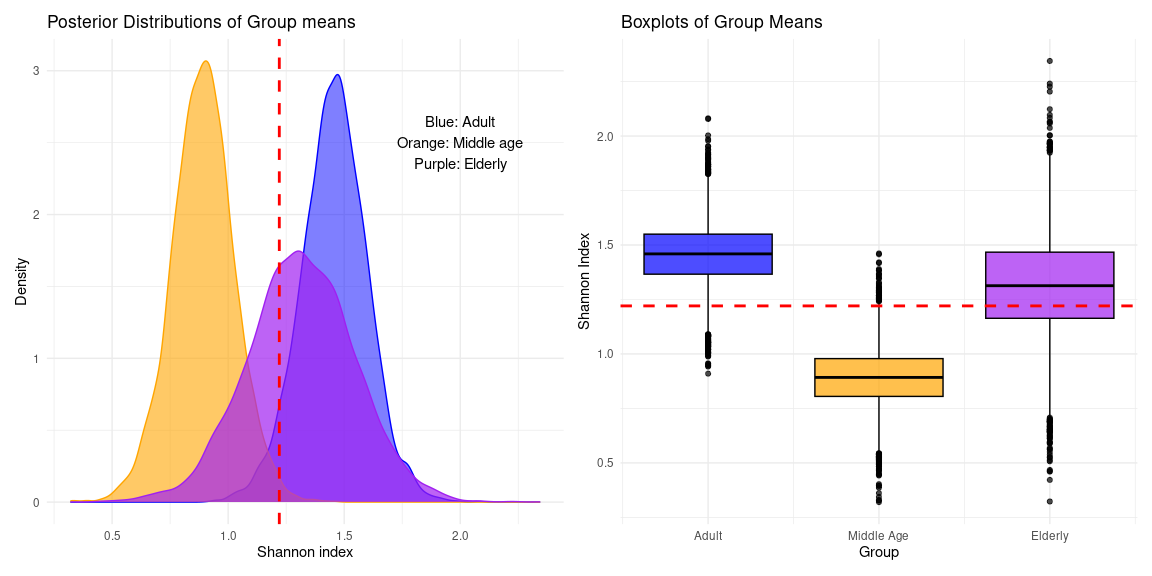
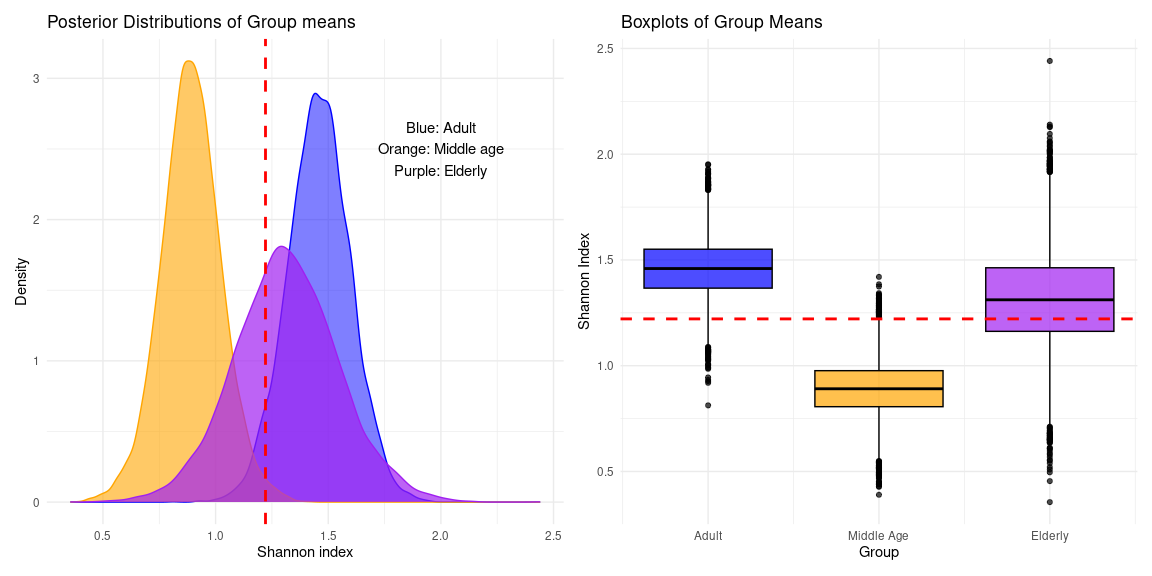
Refresh markdown render

diff --git a/multi_group_alt-bayes.md b/multi_group_alt-bayes.md
@@ -81,7 +81,6 @@ $$
 $$
 
 ``` r
-# Model with partial pooling
 start <- proc.time()
 fit <- brm(
     formula = bf(
@@ -108,16 +107,16 @@ runTime_brm <- end - start
 
     Regression Coefficients:
                         Estimate Est.Error l-95% CI u-95% CI Rhat Bulk_ESS Tail_ESS
-    Intercept               1.46      0.14     1.16     1.74 1.00     8460     5222
-    sigma_Intercept        -0.44      0.17    -0.76    -0.10 1.00     6934     5364
-    AgeElderly             -0.14      0.27    -0.68     0.38 1.00     7816     6013
-    AgeMiddle_age          -0.56      0.20    -0.94    -0.17 1.00     7660     5626
-    sigma_AgeElderly        0.33      0.25    -0.14     0.82 1.00     7323     5797
-    sigma_AgeMiddle_age    -0.26      0.26    -0.75     0.25 1.00     7494     6123
+    Intercept               1.46      0.14     1.18     1.73 1.00     7440     5869
+    sigma_Intercept        -0.44      0.17    -0.76    -0.11 1.00     7387     6009
+    AgeElderly             -0.14      0.27    -0.68     0.40 1.00     7663     5533
+    AgeMiddle_age          -0.57      0.19    -0.94    -0.18 1.00     7851     5730
+    sigma_AgeElderly        0.34      0.24    -0.14     0.82 1.00     8045     6180
+    sigma_AgeMiddle_age    -0.26      0.25    -0.75     0.25 1.00     8649     6253
 
     Further Distributional Parameters:
        Estimate Est.Error l-95% CI u-95% CI Rhat Bulk_ESS Tail_ESS
-    nu    24.45     14.73     5.93    61.19 1.00     9857     5860
+    nu    24.19     14.00     5.89    59.61 1.00     9238     5483
 
     Draws were sampled using sampling(NUTS). For each parameter, Bulk_ESS
     and Tail_ESS are effective sample size measures, and Rhat is the potential
@@ -184,10 +183,6 @@ p1 + p2
 
 ![](multi_group_alt-bayes_files/figure-commonmark/plotting-post-1.png)
 
-    prob_adult_elderly <- mean(plot_data$adult > plot_data$elderly)
-    prob_adult_middleage <- mean(plot_data$adult > plot_data$middle_age)
-    prob_elderly_middleage <- mean(plot_data$elderly > plot_data$middle_age)
-
 From the plots we can infer groups are not similar. Particularly the
 Middle aged (Orange) group appears to have a lower Shannon index. The
 boxplots paint a clear picture of the higher overlap between the Adult
@@ -228,9 +223,9 @@ knitr::kable(probabilities, caption = "Probabilities of Higher Shannon Index", f
 
 | Comparison            | Prob_greater | High_P |
 |:----------------------|-------------:|:-------|
-| Adult vs Elderly      |     0.704125 |        |
-| Adult vs Middle age   |     0.996750 | \*     |
-| Elderly vs Middle age |     0.940875 |        |
+| Adult vs Elderly      |     0.706750 |        |
+| Adult vs Middle age   |     0.998125 | \*     |
+| Elderly vs Middle age |     0.944000 |        |
 
 Probabilities of Higher Shannon Index
 
@@ -397,9 +392,9 @@ knitr::kable(runTimes, caption = "Run times for different methods", format = "pi
 
 | method                  | time_seconds |
 |:------------------------|-------------:|
-| Bayesian estimation     |       83.100 |
-| ANNOVA + t.test         |        0.006 |
-| ANNOVA + HSD            |        0.008 |
+| Bayesian estimation     |       87.499 |
+| ANNOVA + t.test         |        0.005 |
+| ANNOVA + HSD            |        0.009 |
 | Kruskal-Wallis + Dunn’s |        0.008 |
 
 Run times for different methods
